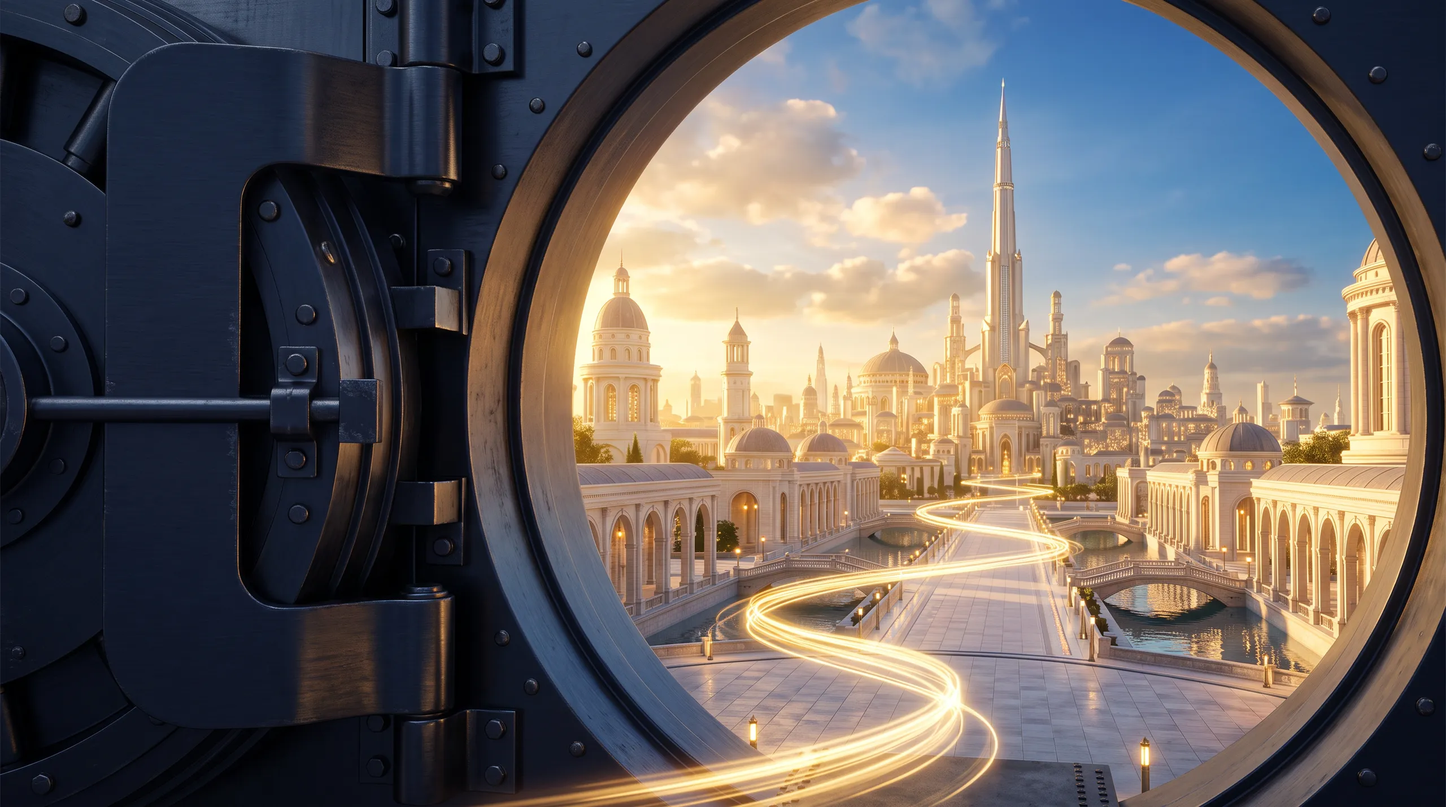
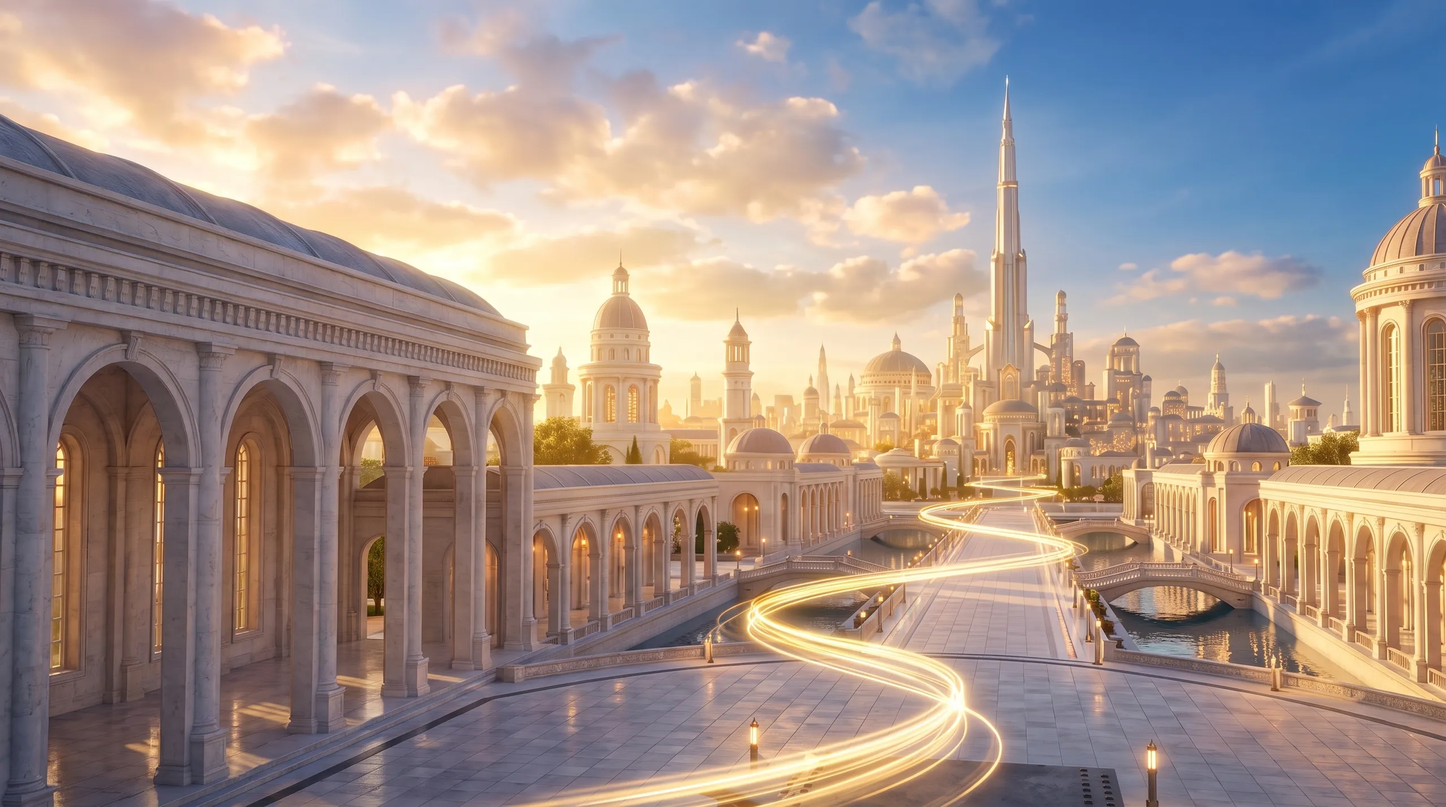
Give the doorway somewhere to open onto
The city layer was the render's own end frame — the city seen through the
vault opening, doorway baked into the image. Pushing the vault layer aside
therefore uncovered a second doorway, and the reader stayed in it for good.
No amount of scaling fixes that: enlarging the picture enlarges the frame.

The layer is now the same street a few paces further in, with no doorway in
it. The render carries the camera to the threshold, the frame flies past, and
what it uncovers is the open plaza. The last of the frame is dropped at 90%
of the journey, by which point it is scaled past every edge.

Verified in a browser at 1440 and 390: door opens and closes monotonically
with the wheel and lands back on exactly 0; 21/21 behaviour checks and zero
axe violations.

Claude-Session: https://claude.ai/code/session_01QoqZGHBRemGh6hXRpbJCdi

diff --git a/src/components/VaultHero.tsx b/src/components/VaultHero.tsx
@@ -22,10 +22,12 @@ const HANDOFF = 0.72;
  *
  * The door is not played, it is scrubbed: scroll position maps to the video's
  * `currentTime`, so it opens as the reader moves down and closes as they move
- * back up. The render's last frame is the city seen through the opening, and
- * the city layer underneath starts on that same framing — so the hand-off at
- * the end is a match cut between two identical images, not a dissolve papering
- * over a jump. Everything else is transform/opacity only.
+ * back up. The render ends at the threshold, still framed by the doorway; the
+ * city layer underneath is the same street a few paces further in, with no
+ * doorway in it at all. The frame then flies past the camera and uncovers it.
+ * That ordering is the whole trick: the reader arrives somewhere, rather than
+ * watching one picture dissolve into another. Everything else is
+ * transform/opacity only.
  *
  * Without the video (not yet dropped in, or a decoder that refuses to seek)
  * the same timeline still runs on the poster: the frame pushes past the camera
@@ -93,7 +95,7 @@ export function VaultHero() {
             { scale: 3.4, yPercent: -6, duration: 0.26, ease: 'power2.in' },
             HANDOFF - 0.06,
           )
-          .to('.journey__vault', { autoAlpha: 0, duration: 0.06 }, HANDOFF + 0.14);
+          .to('.journey__vault', { autoAlpha: 0, duration: 0.04 }, HANDOFF + 0.18);
       } else {
         // No scrubbable render: the still has to do the travelling itself.
         tl
